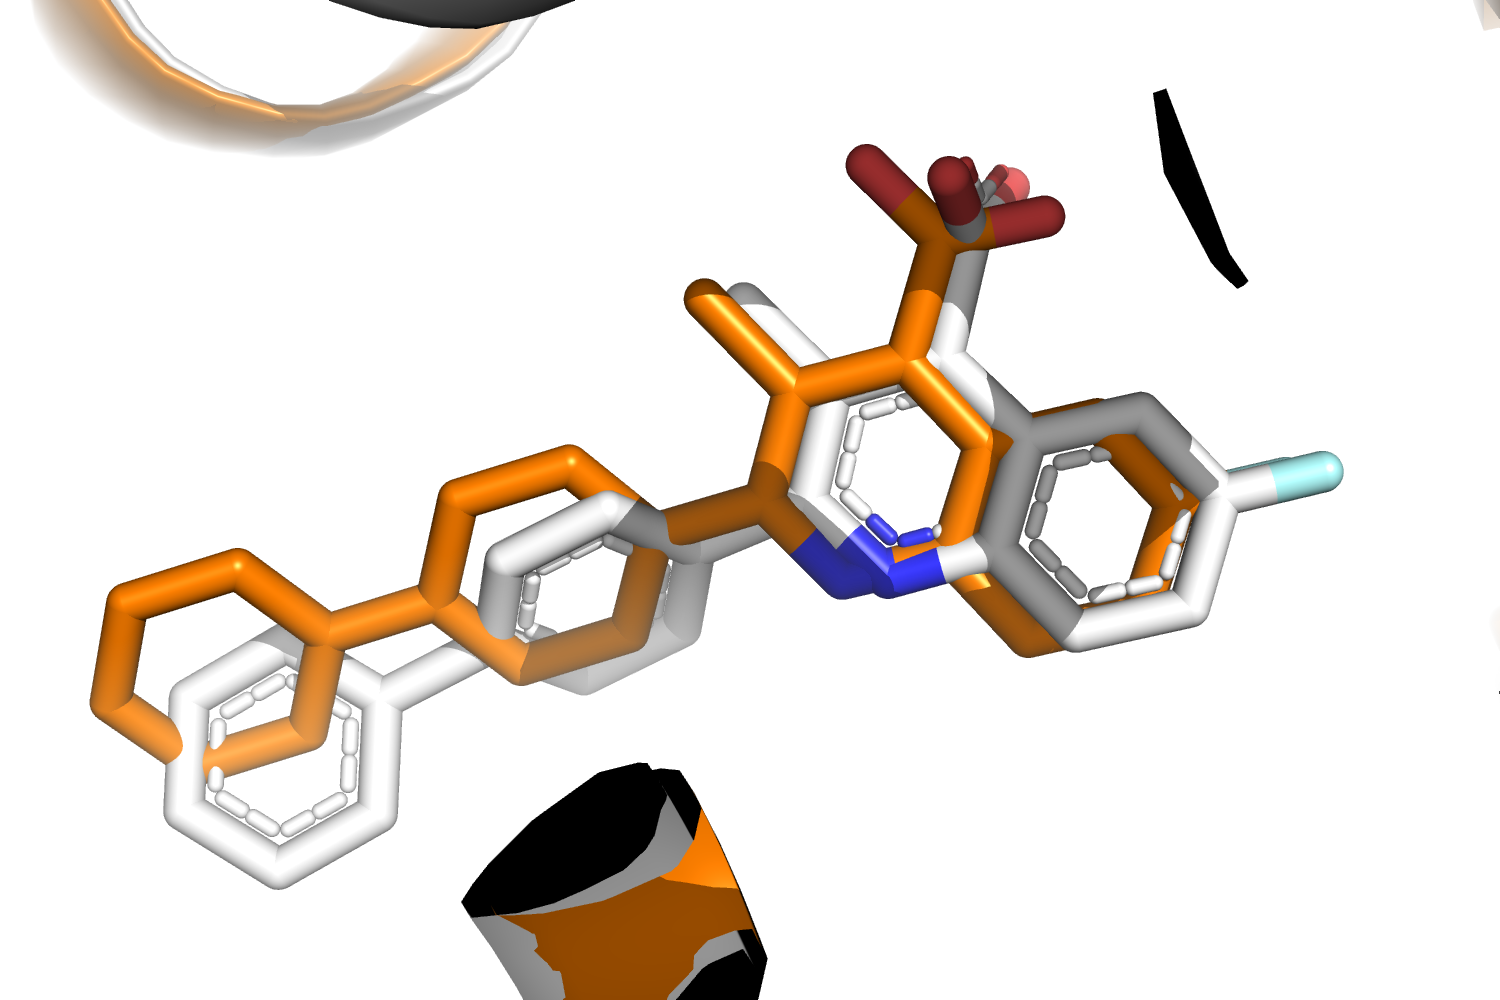
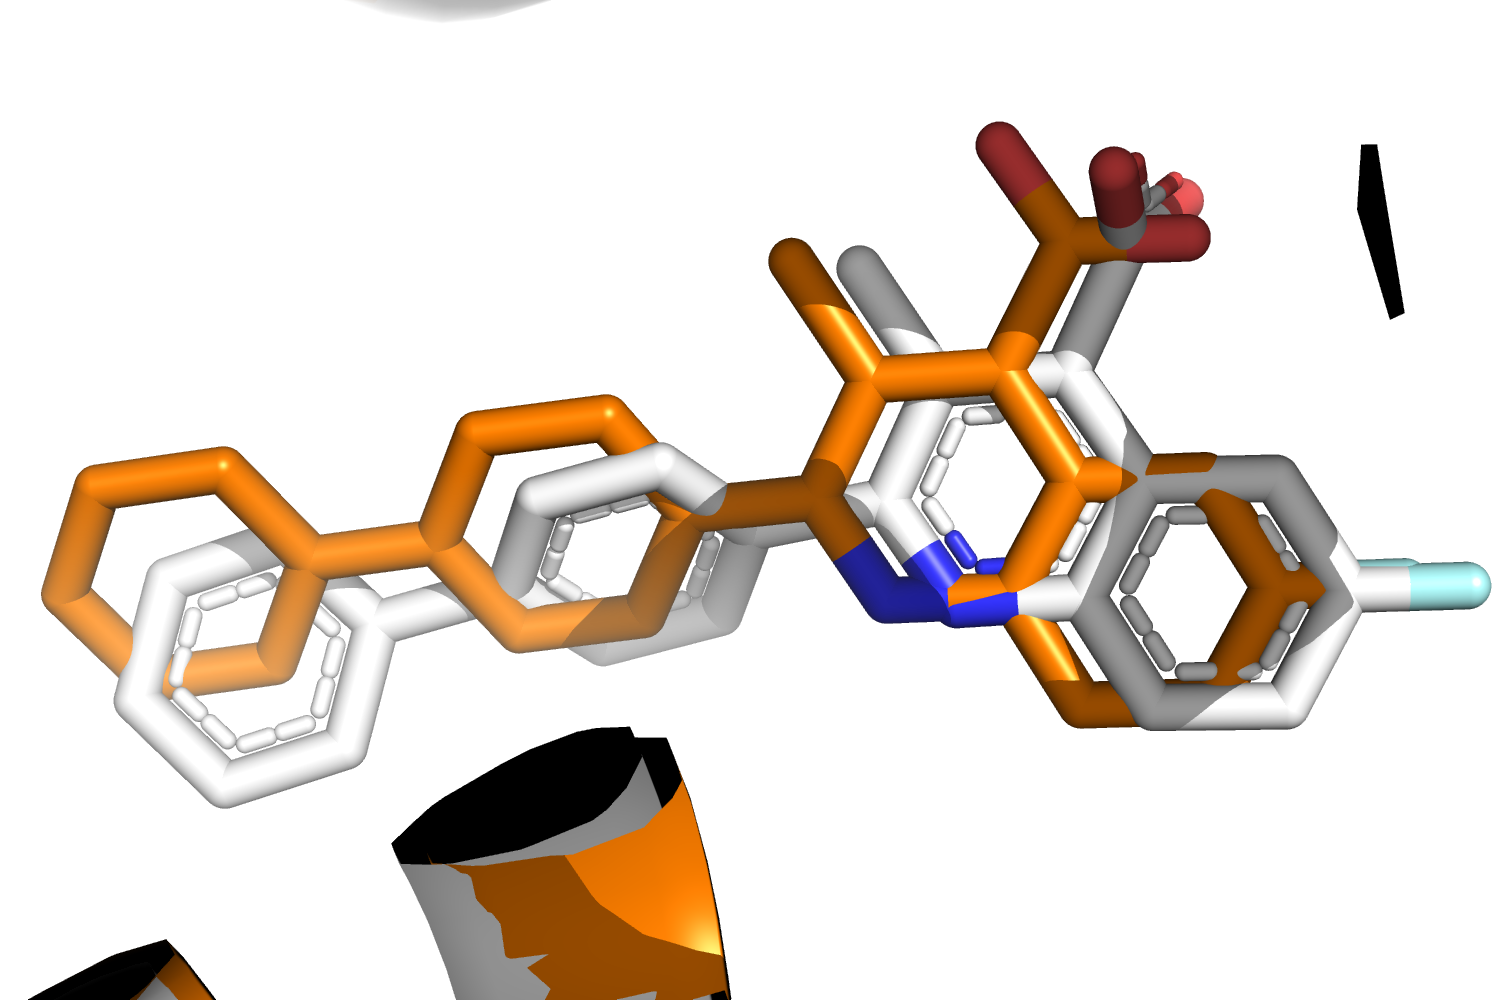
Update shape-based tutorial

diff --git a/education/HADDOCK24/shape-small-molecule/index.md b/education/HADDOCK24/shape-small-molecule/index.md
@@ -132,7 +132,6 @@ Briefly, the main steps of this protocol are the following:
 
 **Note:** The shape-based protocol can be declined into a pharmacophore-based protocol. Step 3 can be adapted accordingly as described in the last section of this tutorial.
 
-
 ### 1. Target selection 
 
 We have chosen the complex with PDB id `1d3g` which is part of the [DUD-E dataset](http://dude.docking.org) as our target.
@@ -152,6 +151,7 @@ FMN -> dihydro-FMN.</i></b>
 <br>
 
 ### 2. Template identification
+
 The nature of the binding site makes it clear that if we are to reproduce the chemical environment of the target complex
 then the template we choose must also contain ORO and FMN in its binding site.
 
@@ -366,25 +366,40 @@ anywhere from a few hours to a few days to finish depending on the load on our s
 ### 5. Visualisation and analysis of results
 
 While HADDOCK is running we can already start looking at precalculated results (which have been derived using the exact
-same settings we used for our run). The compressed run directory can be downloaded from [here](https://wenmr.science.uu.nl/haddock2.4/run/4242424242/73074-shape-based-small-molecule.tgz)
-and it is also part of the provided tutorial files. Using the following command we can expand the contents of the tgz
-archive
+same settings we used for our run). The precalculated run can be found [here](https://wenmr.science.uu.nl/haddock2.4/run/4242424242/73074-shape-based-small-molecule).
+Just glancing at the page tells us that our run has been a success both in terms of the actual run and the postprocessing
+that follows every run. Examining the summary page reveals that in total HADDOCK only clustered 10 models in 10 different clusters,
+effectively performing only single structure analysis. This was expected since we specified no analysis when setting up the run.
+Usually, clustering is a very helpful step when performing protein-protein docking with well-defined interfaces but we
+find that it conveys no measurable benefit for this type of modelling (protein-small molecule) and therefore we skip it.
+
+The very bottom of the page contains some plots of the HADDOCK score against the other parameterers it such as the vdW and
+electrostatics energy. Additionaly HADDOCK score is also plotted against two structural measures: The Fraction of Common
+Contacts (FCC) and the Interface-Ligand RMSD (IL-RMSD). These plots would be more meaningful if clustering was enabled as
+they would show the distribution of the various metrics in clusters instead of the single models they now show.
+
+A more consice way of looking at the breakdown of energetics per model is to look at the summary for each model which can be
+found immediately below the overall summary page. For example, for the top scoring model the HADDOCK score is -62.6 with a
+vdW, electrostatics, desolvation and Buried Surface Area (BSA) contribution of -42.1, -6.2, -6.6 and 771.1. The HADDOCK
+score is the sum of the energetic terms and `-1/100 * BSA`. Also note how the restraint energy is 0 meaning the way we defined
+the restraints made sure that there was no "leftover" restraint energy in the system.
+
+For a closer look at the top models we can use the link just above the **Cluster 1** line, or simply click [here](https://wenmr.science.uu.nl/haddock2.4/run/4242424242/73074-shape-based-small-molecule_summary.tgz).
+
+Using the following command we can expand the contents of the tgz archive
 
 <a class="prompt prompt-cmd">
-  tar xf 73074-shape-based-small-molecule.tgz <br>
+  tar xf 73074-shape-based-small-molecule_summary.tgz <br>
 </a>
 
-Which will create the `73074-shape-based-small-molecule` directory in the current working directory. The final models can
-be found under the `structures/it1` subdirectory. There are 200 PDB files in total and their ranking along with their
-scores can be seen in the `file.list` file.
+Which will result in the creation of 10 PDB files in the current working directory. The files are named `cluster*_1.pdb` with
+the values for * ranging between 1 and 10 reflecting the ranking of the top 10 models according to their haddock score,
+with model `cluster1_1.pdb` being the model with the overall best HADDOCK score.
 
-<a class="prompt prompt-cmd">
-  head file.list <br>
-</a>
-
-The scores of the top 5 models are almost indistinguishable so we will be examining all top 10 models in the hope that
-one of them is a model of high quality, meaning it can reproduce the experimentally available structure with a high
-degree of accuracy, or at the very least yieliding useful biological insights in the nature of the binding pocket.
+Examining the scores available at the result webpage once again shows that the top 5 models are very close in terms of HADDOCK
+score while the bottom 5 score a bit worse. We can also examine the models structurally to see if the better scoring models
+are also of higher-quality compared to the worse scoring ones. Our expectation is that the high-scoring models (models 1-5)
+do a better job at reproducing the experimentally available structure compared to the worse-scoring ones (models 6-10).
 
 <details >
 <summary style="bold">
@@ -401,16 +416,16 @@ closer examination.
 
 <a class="prompt prompt-cmd">
   pymol 1d3g.pdb \ <br>
-  73074-shape-based-small-molecule/structures/it1/complex_2.pdb \ <br>
-  73074-shape-based-small-molecule/structures/it1/complex_6.pdb \ <br>
-  73074-shape-based-small-molecule/structures/it1/complex_9.pdb \ <br>
-  73074-shape-based-small-molecule/structures/it1/complex_5.pdb \ <br>
-  73074-shape-based-small-molecule/structures/it1/complex_1.pdb \ <br>
-  73074-shape-based-small-molecule/structures/it1/complex_26.pdb \ <br>
-  73074-shape-based-small-molecule/structures/it1/complex_14.pdb \ <br>
-  73074-shape-based-small-molecule/structures/it1/complex_31.pdb \ <br>
-  73074-shape-based-small-molecule/structures/it1/complex_27.pdb \ <br>
-  73074-shape-based-small-molecule/structures/it1/complex_24.pdb <br>
+  cluster1_1.pdb \ <br>
+  cluster2_1.pdb \ <br>
+  cluster3_1.pdb \ <br>
+  cluster4_1.pdb \ <br>
+  cluster5_1.pdb \ <br>
+  cluster6_1.pdb \ <br>
+  cluster7_1.pdb \ <br>
+  cluster8_1.pdb \ <br>
+  cluster9_1.pdb \ <br>
+  cluster10_1.pdb <br>
 </a>
 
 After PyMOL has finished loading, we can remove all artifacts and superimpose all models on the reference compound with
@@ -419,6 +434,7 @@ the following PYMOL commands:
 <a class="prompt prompt-pymol">
   remove resn hoh+so4+act+ddq <br>
   alignto 1d3g and chain A
+  zoom
 </a>
 
 And the following PyMOL commands allow us to get a better overview of the binding site:
@@ -433,8 +449,8 @@ And the following PyMOL commands allow us to get a better overview of the bindin
 
 Running the commands above reveals that the top 5 compounds are not only close in terms of HADDOCK score but also in terms
 of the pose they obtain in the binding site. Moving to the bottom half of the top reveals an entirely different story with
-the models obtaining poses that are significantly different to the crystallographic one. In some cases, such as for model
-26, the compound has rotated 180 degrees along the long axis, a problem common to many biomolecular modelling scenarios.
+the models obtaining poses that are slightly or significantly different to the crystallographic one. In some cases, such as for models
+7, 9 and 10, the compound has rotated 180 degrees along the long axis, a problem common to many biomolecular modelling scenarios.
 The top 5 poses however are all very close to the reference structure and capture all the details of the interaction with
 a high degree of accuracy which of course means that our modelling effort can be considered a success.
 
@@ -442,15 +458,24 @@ As part of the analysis we can also compute the symmetry-corrected ligand RMSD f
 the top-scoring compound the following command can be used:
 
 <a class="prompt prompt-cmd">
-  profit -f izone 1d3g.pdb 73074-shape-based-small-molecule/structures/it1/complex_2.pdb <br>
+  profit -f izone 1d3g.pdb cluster1_1.pdb <br>
   grep UNK tmp.pdb | pdb_element > tmp_ligand.pdb <br>
   obrms 1d3g_ligand.pdb tmp_ligand.pdb <br>
-  rm tmp_ligand <br>
+  rm tmp.pdb tmp_ligand.pdb <br>
 </a>
 
-Revealing a ligand RMSD value of 0.94 indicating excellent agreement between model and reference structures.
+Revealing a ligand RMSD value of 0.98 indicating excellent agreement between model and reference structures.
 
+If we want to examine the run in greater detail then we can download the archive of the entire run from [here](https://wenmr.science.uu.nl/haddock2.4/run/4242424242/73074-shape-based-small-molecule.tgz)
+and expand it using the same command as above. This will create the `73074-shape-based-small-molecule` directory in
+the current working directory. The final models can be found under the `structures/it1` subdirectory. There are 200
+PDB files in total and their ranking along with their scores can be seen in the `file.list` file.
 
+<a class="prompt prompt-cmd">
+  head file.list <br>
+</a>
+
+The above command should show the same HADDOCK scores as what we already saw for the top 10 models.
 
 ## Pharmacophore-based protocol adaptation
 
